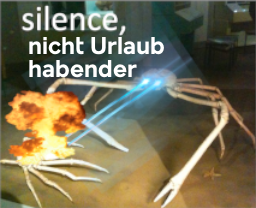
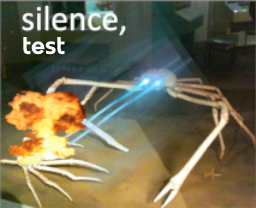
.

Changed region(s): [[0.0625, 0.1731, 0.6562, 0.2596], [0.0938, 0.2885, 0.5312, 0.375]]

diff --git a/flask_app.py b/flask_app.py
@@ -6,6 +6,7 @@ import random
 import re
 import sys
 import time
+import os
 
 from list import savNew, getList, getRandomList, getRandomFromList, removeFromList
 from randgif import getRand, getRandTenor, getTrendTenor
@@ -13,14 +14,15 @@ from timer import timer_html
 from roll import roll
 from contextlib import closing
 
+
+os.environ["TZ"] = "Europe/Berlin"
+time.tzset()
+
 daylie_post = ('0000-00-00', '', '')
 
 bot = config.bot
 
 dnbot = config.botdnbot
-
-
-crabbot = config.crabbot
 
 app = Flask(__name__)
 
@@ -28,9 +30,9 @@ app = Flask(__name__)
 def telegram_webhook():
     try:
         update = request.get_json()
-        if 'callback_query' in update and False:
-            #updatePoll(update)
-            return "OK"
+        updateMsgLog(update)
+        if random.randint(0,80) == 0:
+            bot.sendDocument(update["message"]["chat"]["id"], getRand('hallo'))
         if update["message"]["from"]["id"] == config.sysuser:
             if "message" in update and "photo" in update["message"]:
                 addPhoto(update['message']['photo'][0]['file_id'], 'p')
@@ -47,6 +49,9 @@ def telegram_webhook():
                 if m == None:
                     return "OK"
                 bot.sendMessage(m.group(1), m.group(2))
+                return "OK"
+        if not update["message"]["text"].startswith('/'):
+            return "OK"
         if "message" in update and "text" in update["message"]:
             chat_id = update["message"]["chat"]["id"]
             if update["message"]["text"].startswith('/zitat'):
@@ -128,11 +133,43 @@ def dnidb():
             return "OK"
     store(m, dnbot)
     return "OK"
+
+typ3s = {
+    't': 'text',
+    'a': 'animation',
+    's': 'sticker',
+    'p': 'photo',
+    'v': 'video',
+    'i': 'voice',
+    'o': 'poll',
+    'd': 'document',
+    'c': 'comand',
+}
+
+def updateMsgLog(upd):
+    reply=upd['message'].get('reply_to_message', {}).get('message_id', 0)
+    length=len(upd['message'].get('text', '1'))
+    typ3=next((key for key, val in typ3s.items() if upd['message'].get(val, None)), 'N')
+    if typ3 == 't' and upd['message']['text'].startswith('/'):
+        typ3 = 'c'
+    sql = """
+    insert into msglog
+    (msg_id, user_id, chat_id, reply, date, time, day, len, type)
+    values (%s,'%s','%s',%s,'%s','%s','%s',%s,'%s')
+    """ % (upd['message']['message_id'],upd['message']['from']['id'],upd['message']['chat']['id'], reply,time.strftime('%Y-%m-%d'), time.strftime('%H:%M:%S'), time.strftime('%u'), length, typ3)
+    execSql(sql)
+
+def execSql(sql):
+    with closing(config.getCon()) as con:
+        with closing(con.cursor()) as cur:
+            cur.execute(sql)
+            con.commit()
+
 def addPhoto (file_id, typ3):
     with closing(config.getCon()) as con:
         with closing(con.cursor()) as cur:
             sql = ('''
-            INSERT INTO daylie_post (file_id, type, date_day,tags, cts)
+            INSERT INTO daylie_post (file_id, type, date_day, tags, cts)
             SELECT '%(f)s', '%(t)s', '', 'b', '%(ts)s' FROM DUAL WHERE NOT EXISTS (
                 SELECT file_id FROM daylie_post WHERE file_id = '%(f)s'
             ) LIMIT 1''' % {'f':file_id, 't': typ3, 'ts': time.strftime('%Y-%m-%d %H:%M:%S')})
@@ -246,19 +283,6 @@ def getdayliepost(chat_id):
         bot.sendDocument(chat_id, fileId, caption=u'\U0001F9A6\U0001F9A6\U0001F9A6')
     #bot.sendDocument(chat_id,'CgADBAAD7gEAAnNK_FEzhF6_uX7faRYE')
 
-@app.route(config.crabtelegram['hook'], methods=['POST'])
-def crabhook():
-    m = request.get_json()
-    if "message" in m and "text" in m["message"]:
-        chat_id = m["message"]["chat"]["id"]
-        if m["message"]["text"].startswith('/silence'):
-            text = m["message"]["text"][9:]
-            createOutPng(text)
-            with open("/home/fia4awagner/mysite/img/out.png", "rb") as f:
-                crabbot.sendPhoto(chat_id, ('silence.png', f))
-            return "OK"
-    return "OK"
-
 def dumpPhoto(bot, chat_id):
     with closing(config.getCon()) as con:
         with closing(con.cursor()) as cur:
@@ -289,16 +313,18 @@ def store (m, bot):
                 print('no insert')
             con.commit()
 
+def tryAndLogError(func):
+    def wrapper(*args, **kwargs):
+        try:
+            return func(*args, **kwargs)
+        except Exception  as e:
+            print(str(e), file=sys.stderr)
+            return "OK"
+    return wrapper
+
 @app.route('/timer.html', methods=['GET'])
 def timer():
     return timer_html
-
-
-from PIL import Image
-from PIL import ImageFont
-from PIL import ImageDraw
-
-font = ImageFont.truetype("/home/fia4awagner/mysite/img/20db.otf", 25)
 
 @app.route('/silence.png')
 def hello_world():
@@ -306,8 +332,60 @@ def hello_world():
     createOutPng(text)
     return send_file("/home/fia4awagner/mysite/img/out.png", attachment_filename='silence.png',mimetype='image/png')
 
+crabbot = config.crabbot
+
+@app.route(config.crabtelegram['hook'], methods=['POST'])
+@tryAndLogError
+def crabhook():
+    m = request.get_json()
+    if "message" in m and "text" in m["message"] and m["message"]["text"].startswith('/silence'):
+        createOutPng(m["message"]["text"][9:])
+        with open("/home/fia4awagner/mysite/img/out.png", "rb") as f:
+            crabbot.sendPhoto(m["message"]["chat"]["id"], ('silence.png', f))
+    return "OK"
+
+from PIL import Image
+from PIL import ImageFont
+from PIL import ImageDraw
+font = ImageFont.truetype("/home/fia4awagner/mysite/img/20db.otf", 25)
 def createOutPng(text):
-    img = Image.open("/home/fia4awagner/mysite/img/silence.png")
-    draw = ImageDraw.Draw(img)
-    draw.text((22, 35), text ,(255,255,255),font=font)
-    img.save('/home/fia4awagner/mysite/img/out.png')
+    with Image.open("/home/fia4awagner/mysite/img/silence.png") as img:
+        draw = ImageDraw.Draw(img)
+        draw.text((22, 35), text ,(255,255,255),font=font)
+        img.save('/home/fia4awagner/mysite/img/out.png')
+
+
+oadCache=[]
+oadDate=''
+def onceADay(fnc):
+    def wrapper(*args):
+        global oadCache
+        global oadDate
+        if not time.strftime('%Y%m%d') in oadDate:
+            oadCache=[]
+            oadDate=time.strftime('%Y%m%d')
+        if (str(args)) in oadCache:
+            return True
+        else:
+            oadCache.append(str(args))
+            return fnc(*args)
+    return wrapper
+
+@onceADay
+def syncUser(chat_id):
+    sql = "select user_id from msglog where chat_id='%s' group by user_id;" % (chat_id)
+    for user in readSql(sql):
+       user = bot.getChatMember(chat_id, user[0])['user']
+       for i in ['user_id','first_name','username','last_name']:
+           if not user.get(i):
+               user[i] = ''
+       sql = "delete from usr where user_id='%(id)s';" % user
+       execSql(sql)
+       sql = "insert into usr (user_id,first_name,username,last_name) values ('%(id)s','%(first_name)s','%(username)s','%(last_name)s');" % user
+       execSql(sql)
+
+def readSql(sql):
+    with closing(config.getCon()) as con:
+        with closing(con.cursor()) as cur:
+            cur.execute(sql)
+            return cur.fetchall()

diff --git a/quotes.py b/quotes.py
@@ -38,4 +38,11 @@ def daylieQuote():
             cur = con.cursor()
             cur.execute("select chatid from quoteSubs where subed=1")
             for row in cur:
-                bot.sendMessage(row[0], text, parse_mode='Markdown')
+                try:
+                    bot.sendMessage(row[0], text, parse_mode='Markdown')
+                except: # BotWasKickedError
+                    sql = "update quoteSubs set subed=0 where chatid=%s" % row[0]
+                    with closing(config.getCon()) as con:
+                        with closing(con.cursor()) as cur:
+                            cur.execute(sql)
+                        con.commit()

diff --git a/schedule.py b/schedule.py
@@ -1,4 +1,16 @@
 #!/usr/bin/python3.6
 from quotes import daylieQuote
+from datetime import date
+import holidays
+import config
+from contextlib import closing
+
 
 daylieQuote()
+
+if date.today() in holidays.DE(years=date.today().year):
+    with closing(config.getCon()) as con:
+        with closing(con.cursor()) as cur:
+            cur.execute("select chatid from quoteSubs where datesub=1")
+            for r in cur.fetchall():
+                config.bot.sendMessage(r[0], 'Heute haben wir frei => *'+u'\U0001F389'+holidays.DE(years=2020)[date.today()]+'*'+u'\U0001F389', parse_mode='Markdown')
